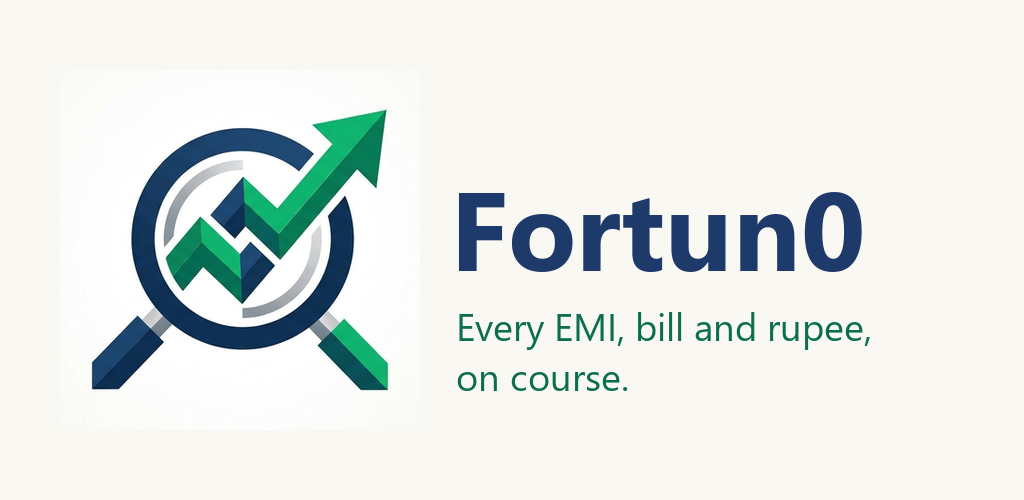
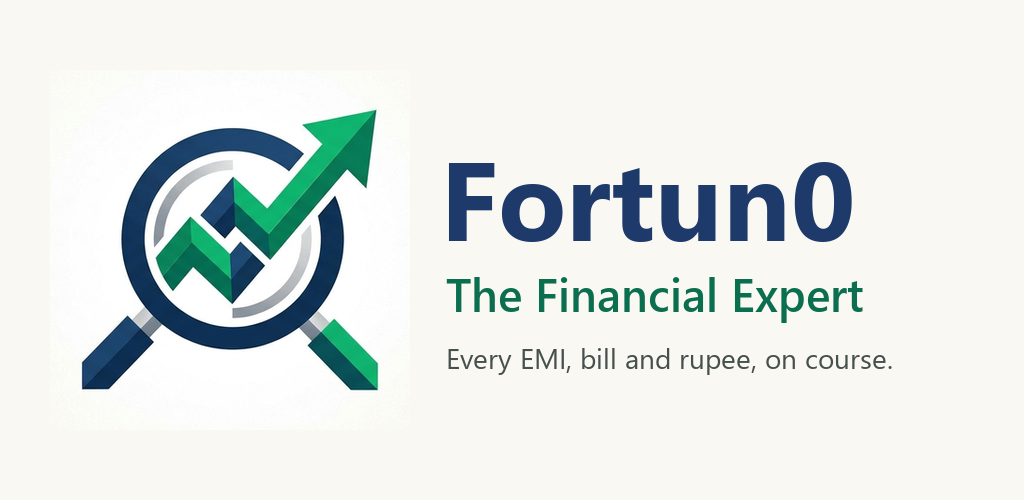
Name the app "Fortun0: The Financial Expert"
Store title, sign-in screen subtitle, website heading and feature graphic.
The home-screen label stays "Fortun0" so it is not cut off under the icon.

Changed region(s): [[0.4375, 0.3, 0.875, 0.78], [0.0625, 0.21, 0.4062, 0.78]]

diff --git a/app/src/main/java/app/paisapilot/feature/auth/AuthScreen.kt b/app/src/main/java/app/paisapilot/feature/auth/AuthScreen.kt
@@ -71,6 +71,12 @@ fun AuthScreen(viewModel: AuthViewModel = hiltViewModel()) {
         BrandMark()
         Text("Fortun0", style = MaterialTheme.typography.headlineMedium, fontWeight = FontWeight.Bold)
         Text(
+            "The Financial Expert",
+            style = MaterialTheme.typography.titleMedium,
+            fontWeight = FontWeight.SemiBold,
+            color = MaterialTheme.colorScheme.primary,
+        )
+        Text(
             "Every EMI, bill and rupee, on course.",
             style = MaterialTheme.typography.bodyLarge,
             color = MaterialTheme.colorScheme.onSurfaceVariant,

diff --git a/public/index.html b/public/index.html
@@ -3,12 +3,12 @@
 <head>
 <meta charset="utf-8">
 <meta name="viewport" content="width=device-width, initial-scale=1">
-<title>Fortun0</title>
+<title>Fortun0: The Financial Expert</title>
 <link rel="stylesheet" href="style.css">
 </head>
 <body>
 <main>
-<h1>Fortun0</h1>
+<h1>Fortun0: The Financial Expert</h1>
 <p>Every EMI, bill and rupee, on course. An EMI tracker and money manager for Android.</p>
 <ul>
   <li><a href="privacy.html">Privacy policy</a></li>

diff --git a/release/store-listing/listing.md b/release/store-listing/listing.md
@@ -4,10 +4,10 @@ Everything to paste into Play Console. Character limits are Google's.
 
 ## Main store listing
 
-**App name** (30 max, this is 28)
+**App name** (30 max, this is 29)
 
 ```
-Fortun0: EMI & Money Tracker
+Fortun0: The Financial Expert
 ```
 
 **Short description** (80 max, this is 72)
